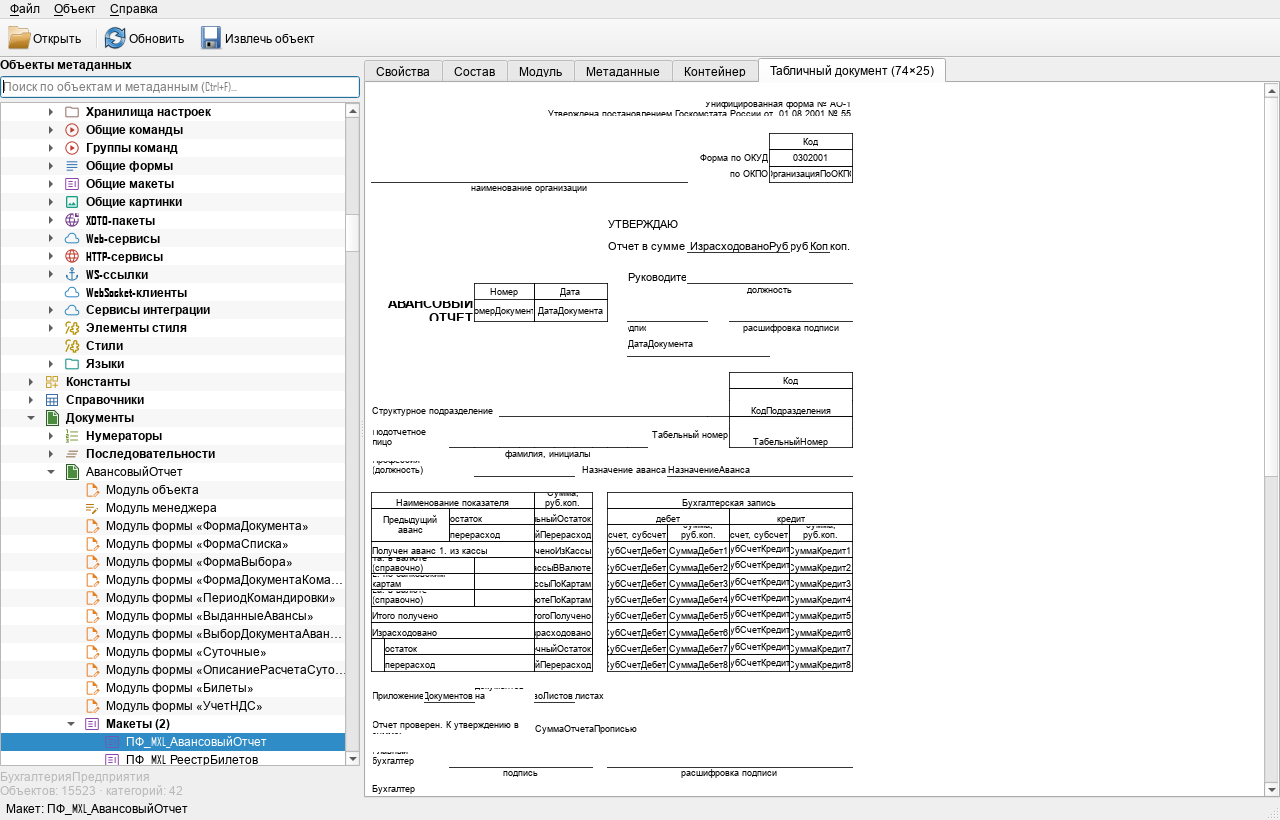
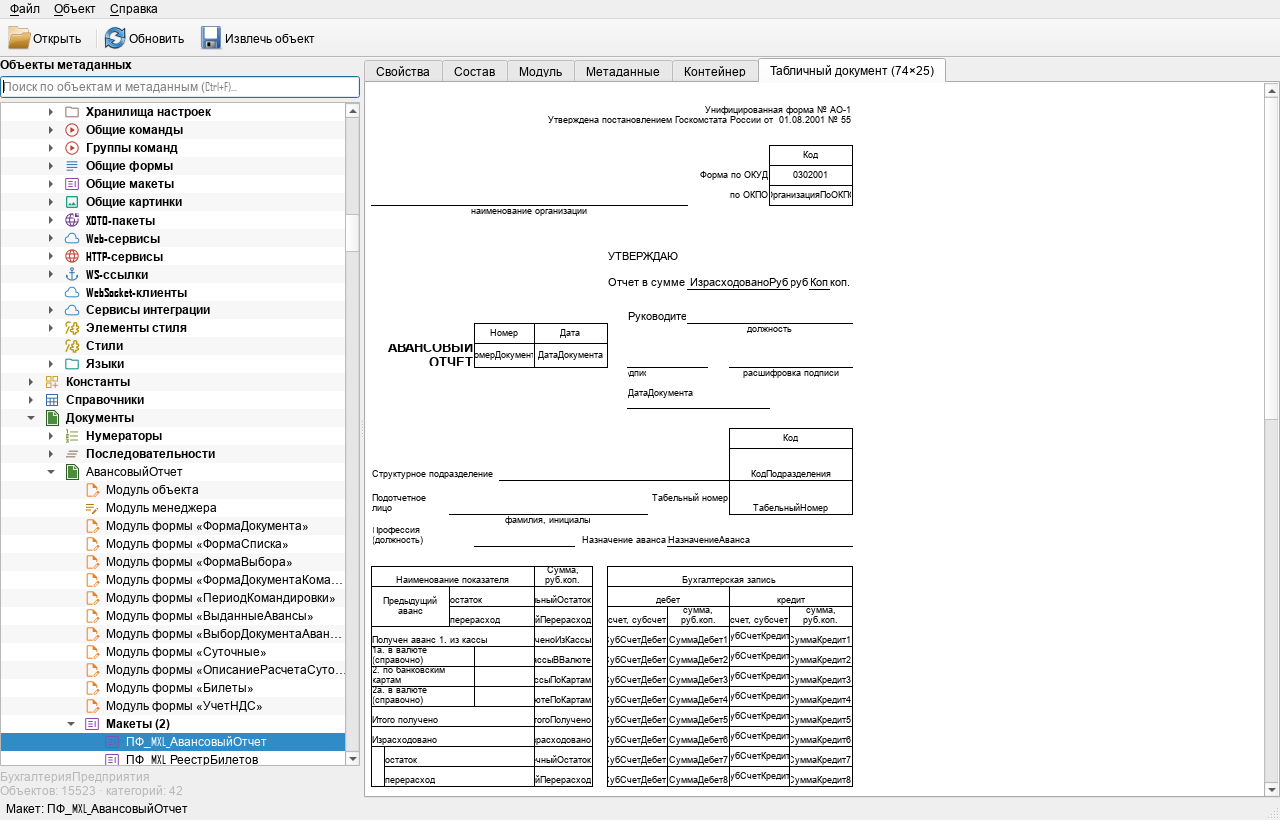
docs: review MetadataViewer1C, align MXL rendering rules
- docs/research/metadata-viewer-projects.md: analysis of the VS Code
  extension (marketplace whiterabbit.1c-configuration-tree and GitHub
  asweetand-a11y/MetadataViewer1C), what to borrow and what is out of scope
- MxlView: 1C/EDT border line semantics (4 thin dashed, 5 thick dashed,
  6 large dashed) and auto row height max(20, ceil(fontPx*1.2+8))
- screenshot of the MXL preview refreshed

Changed region(s): [[0.2812, 0.3963, 0.6875, 0.9756], [0.3125, 0.2134, 0.6562, 0.4878], [0.4375, 0.122, 0.6875, 0.2439]]

diff --git a/src/gui/MxlView.cpp b/src/gui/MxlView.cpp
@@ -193,22 +193,19 @@ double MxlView::cellPixelHeight(int rowIndex) const
         if (units > 0.0)
             return units / kInchUnits * kDpi;
 
-        double fontHeight = fontPixelSize(baseFont()) * 1.35 + 4.0;
+        double maxFontPx = fontPixelSize(baseFont());
         const mxl::CellFormat *rowFormat = m_document.formatAt(row.format);
-        if (rowFormat) {
-            const QFont font = fontForFormat(rowFormat);
-            fontHeight = std::max(fontHeight, fontPixelSize(font) * 1.35 + 4.0);
-        }
+        if (rowFormat)
+            maxFontPx = std::max(maxFontPx, fontPixelSize(fontForFormat(rowFormat)));
         for (const auto &cell : row.cells) {
             const mxl::CellFormat *format = m_document.formatAt(cell.second.format);
             if (!format)
                 continue;
-            const QFont font = fontForFormat(format);
-            fontHeight = std::max(fontHeight, fontPixelSize(font) * 1.35 + 4.0);
+            maxFontPx = std::max(maxFontPx, fontPixelSize(fontForFormat(format)));
         }
-        return fontHeight;
+        return std::max(20.0, std::ceil(maxFontPx * 1.2 + 8.0));
     }
-    return fontPixelSize(baseFont()) * 1.35 + 4.0;
+    return std::max(20.0, std::ceil(fontPixelSize(baseFont()) * 1.2 + 8.0));
 }
 
 void MxlView::rebuildLayout()
@@ -376,13 +373,18 @@ void MxlView::drawCell(QPainter &painter, int rowIndex, int column,
             return;
 
         QPen pen(borderColor);
-        pen.setWidthF(std::max(0.8, style.thickness * 0.6));
+        pen.setWidthF(std::max(1.0, style.thickness * 0.8));
         switch (style.kind) {
         case 2: pen.setStyle(Qt::DotLine); break;
         case 3: pen.setStyle(Qt::SolidLine); pen.setWidthF(2.2); break;
-        case 4: pen.setStyle(Qt::DashDotLine); break;
-        case 5: pen.setStyle(Qt::DashLine); break;
-        case 6: pen.setStyle(Qt::CustomDashLine); break;
+        case 4: pen.setStyle(Qt::DashLine); break;                     // тонкий пунктир
+        case 5: pen.setStyle(Qt::DashLine); pen.setWidthF(2.0); break; // жирный пунктир
+        case 6: {                                                       // большой пунктир
+            pen.setStyle(Qt::CustomDashLine);
+            pen.setWidthF(2.0);
+            pen.setDashPattern({6.0, 3.0});
+            break;
+        }
         default: pen.setStyle(Qt::SolidLine); break;
         }
         painter.setPen(pen);

diff --git a/docs/research/metadata-viewer-projects.md b/docs/research/metadata-viewer-projects.md
@@ -1,0 +1,84 @@
+# Обзор: 1C Configuration tree / MetadataViewer1C
+
+Ссылки:
+
+- Marketplace: [1C Configuration tree](https://marketplace.visualstudio.com/items?itemName=whiterabbit.1c-configuration-tree)
+  (publisher whiterabbit, 785 установок, бесплатно);
+- Исходники: [asweetand-a11y/MetadataViewer1C](https://github.com/asweetand-a11y/MetadataViewer1C)
+  (TypeScript, MIT, ~75 звёзд).
+
+Это один и тот же продукт: описание в Marketplace и README репозитория совпадают
+(те же команды `metadataViewer.*`, тот же функционал). Расширение VS Code / Cursor
+для работы с метаданными конфигураций **в форматах XML/EDT** (пары
+`ConfigDumpInfo.xml` + `Configuration.xml`), а не с бинарными `.cf/.epf`.
+Таким образом, по отношению к qtv8reader это не конкурент, а комплементарный
+продукт: мы читаем бинарные контейнеры, они — выгрузки Designer XML/EDT.
+
+## Что умеет
+
+- Дерево метаданных по XML/EDT: все стандартные ветки, модули BSL, шаблоны,
+  предопределённые данные, формы, СКД, роли.
+- **Просмотр и редактирование макетов** (Template.xml): таблица с форматами,
+  цветами, границами, узорами, шрифтами, объединениями, именованными областями,
+  примечаниями ячеек, параметрами `[[Имя]]`.
+- **Предпросмотр форм** (FormPreviewApp), предпросмотр/редактор СКД,
+  редактор прав роли (RLS), редактор предопределённых элементов,
+  редактор метаданных объекта, поиск по дереву, фильтр по подсистеме.
+- Трёхуровневый кэш (L1 конфигурация, L2 объект, L3 элементы) и переиндексация.
+- Автогенерация BSL, закладки, управление отступами, MCP-сервер и т. п.
+
+## Что полезно для qtv8reader
+
+### Взято сразу (реализовано в ветке feature/mxl_reader)
+
+1. **Семантика типов линий рамки MXL** (`src/utils/spreadsheetCellLineType.ts`):
+   коды 0 — нет, 1 — сплошная, 2 — точечная, 3 — двойная, 4 — тонкий пунктир,
+   5 — жирный пунктир, 6 — большой пунктир (совпадает с EDT
+   `SpreadsheetDocumentCellLineType`). Исправлен рендер `MxlView`
+   (раньше 4/5/6 маппились неточно).
+2. **Формула автовысоты строки** (`calculateRowHeight`):
+   `max(20, ceil(размер_шрифта_px * 1.2 + 8))`, где px = pt * 96/72.
+   Принята в `MxlView::cellPixelHeight`.
+3. Подтверждены константы и подходы: ширина колонки по умолчанию 72 единицы,
+   шрифт в пикселях = pt * 96/72, высота строки не каскадируется.
+
+### Кандидаты на следующие шаги
+
+1. **Именованные области и параметры макета** (`templateUtils.ts`,
+   `NamedAreaDialog`, `TemplateTable.js`): в MXL8 в хвосте есть таблица
+   именованных областей; можно парсить в `MxlDocument`, показывать списком в
+   «Составе» и подсвечивать область в `MxlView`. Полезно для печатных форм.
+2. **Состав подсистемы и фильтр по подсистеме** (`subsystemMembership.ts`):
+   у нас уже читается иерархия подсистем; в элементе подсистемы есть таблица
+   состава `{класс_объекта, GUID}` — можно показывать «Объекты подсистемы» и
+   фильтровать дерево (как в 1С: «Действия → По подсистемам»).
+3. **Примечания/расшифровки ячеек**: в макетах хранятся notes/details;
+   их можно показывать в свойствах ячейки/всплывающей подсказке.
+4. **Кэширование и инкрементальное обновление**: L1/L2/L3-подход полезен,
+   если появятся очень большие конфигурации и повторные открытия; для
+   read-only ридера достаточно ленивого разбора, но идея переиндексации узла
+   применима к нашему дереву.
+5. **Предпросмотр форм** (`FormPreviewApp`): большая отдельная задача
+   (в бинарном `.cf` формы — сериализованная модель 1С). Их реализация —
+   хороший референс UI, но портировать её целиком не стоит.
+6. **Редактор прав роли / предопределённые данные**: аналог в 1С; для нас
+   возможно в режиме просмотра (права в `.cf` хранятся как XML/текст внутри
+   элементов роли — надо проверить на реальном файле).
+7. **Поддержка XML/EDT-выгрузок**: если понадобится читать конфигурации,
+   выгруженные в Designer XML, можно взять их модели/схемы как референс
+   (но код TypeScript и завязан на webview; проще свой XML-ридер).
+
+### Что не подходит
+
+- Редактирование метаданных, XML-патчинг, генерация BSL, MCP — вне задачи
+  read-only ридера.
+- Веб-рендеринг (React/webview) не переносится в Qt-приложение; полезны только
+  формулы разметки и семантика полей.
+- Проект не читает бинарные `.cf/.epf/.cfe` — наш сценарий остаётся уникальным.
+
+## Лицензия
+
+MIT (файл `LICENSE.md`), можно использовать код и идеи с указанием авторства.
+После переноса логики (типы линий, формула высоты) в `MxlView` ссылка на проект
+добавлена в этот документ; при дальнейшем переносе кода — указывать в
+`THIRD-PARTY-NOTICES`.
